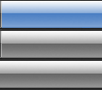
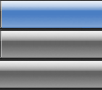
fix 784: Import WED 1.5 format DrapedOrthophotos with automatic redrape off - minor fixes to WED_TCEMarqueeTool rotate function - small changes to text in PropertyPane button bar texts to reduce overall   toolbar width - the "texture" button is very far out and usually invisible - small darkening of

diff --git a/src/WEDTCE/WED_TCEVertexTool.cpp b/src/WEDTCE/WED_TCEVertexTool.cpp
@@ -242,6 +242,27 @@ bool		WED_TCEVertexTool::PointOnStructure(intptr_t id, const Point2& p) const
 	return false;
 }
 
+static void updateUVbounds(IGISEntity * who)
+{
+	WED_Thing * node = dynamic_cast <WED_Thing *> (who);
+	node = node->GetParent();
+	WED_DrapedOrthophoto * ortho = SAFE_CAST(WED_DrapedOrthophoto,node);
+	if (!ortho)
+	{
+		if (node) node = node->GetParent();
+		ortho = SAFE_CAST(WED_DrapedOrthophoto,node);
+	}
+	if (ortho)
+	{
+		Bbox2 new_b;
+//		allow continued use of automatic redraping
+//		who->GetBounds(gis_UV,new_b);
+//		disable automatic redraping
+		new_b = Bbox2(0,0,0,0);
+		ortho->SetSubTexture(new_b);
+	}
+}
+
 void		WED_TCEVertexTool::ControlsMoveBy(intptr_t id, const Vector2& delta, Point2& io_handle)
 {
 	IGISEntity * who = reinterpret_cast<IGISEntity *>(id);
@@ -252,12 +273,8 @@ void		WED_TCEVertexTool::ControlsMoveBy(intptr_t id, const Vector2& delta, Point
 	new_b.p2 += delta;
 	who->Rescale(gis_UV,old_b,new_b);
 	
-	// now that we used TCE to modify the UVmaping, turn off the automatic redraping
-	WED_Thing * node = dynamic_cast <WED_Thing *> (who);
-	node = node->GetParent();
-	WED_DrapedOrthophoto * ortho = SAFE_CAST (WED_DrapedOrthophoto,node);
-	if (ortho)
-		ortho->SetSubTexture(Bbox2(0,0,0,0));
+	// now that we used TCE to modify the UVmaping, update UVbounds
+	updateUVbounds(who);
 }
 
 void		WED_TCEVertexTool::ControlsHandlesBy(intptr_t id, int c, const Vector2& delta, Point2& io_pt)
@@ -314,17 +331,8 @@ void		WED_TCEVertexTool::ControlsHandlesBy(intptr_t id, int c, const Vector2& de
 		break;
 	}
 
-	// now that we are going to use TCE to modify the UVmaping, turn off the automatic redraping first
-	WED_Thing * node = dynamic_cast <WED_Thing *> (who);
-	node = node->GetParent();
-	node = node->GetParent();
-	WED_DrapedOrthophoto * ortho = SAFE_CAST (WED_DrapedOrthophoto,node);
-//	if (ortho)
-//		ortho->SetSubTexture(Bbox2(0,0,0,0));
-	
-	// next update mCache ?
-//	SyncCache();
-
+	// now that we used TCE to modify the UVmaping, update UVbounds
+	updateUVbounds(who);
 }
 
 void		WED_TCEVertexTool::ControlsLinksBy	 (intptr_t id, int c, const Vector2& delta, Point2& io_pt)
@@ -348,13 +356,8 @@ void		WED_TCEVertexTool::ControlsLinksBy	 (intptr_t id, int c, const Vector2& de
 		}
 		break;
 	}
-	// now that we used TCE to modify the UVmaping, turn off the automatic redraping
-	WED_Thing * node = dynamic_cast <WED_Thing *> (who);
-	node = node->GetParent();
-	node = node->GetParent();
-	WED_DrapedOrthophoto * ortho = SAFE_CAST (WED_DrapedOrthophoto,node);
-	if (ortho)
-		ortho->SetSubTexture(Bbox2(0,0,0,0));
+	// now that we used TCE to modify the UVmaping, update UVbounds
+	updateUVbounds(who);
 }
 
 void	WED_TCEVertexTool::HandleSnap(Point2& io_pt, const Vector2& delta)

diff --git a/src/WEDCore/WED_Orthophoto.cpp b/src/WEDCore/WED_Orthophoto.cpp
@@ -59,19 +59,19 @@ WED_Ring * WED_RingfromImage(char * path, WED_Archive * arch, WED_MapZoomerNew *
 			if (c[1] < c[5])
 			{
 				// SW, SE, NW, NE from tiff, but we are making a CCW wound polygon, i.e. SW SE NE NW
-				coords[3] = Point2(c[0],c[1]);
-				coords[0] = Point2(c[2],c[3]);
-				coords[2] = Point2(c[4],c[5]);
-				coords[1] = Point2(c[6],c[7]);
+				coords[0] = Point2(c[0],c[1]);
+				coords[1] = Point2(c[2],c[3]);
+				coords[3] = Point2(c[4],c[5]);
+				coords[2] = Point2(c[6],c[7]);
 			}
 			else
 			{
 				// jpg compressed files have the origin at the bottom, not the top. So their encoding is
 				// NW, NE, SW, SE, but we are making a CCW wound polygon, i.e. need it to be SW SE NE NW
-				coords[3] = Point2(c[4],c[5]);
-				coords[0] = Point2(c[6],c[7]);
-				coords[2] = Point2(c[0],c[1]);
-				coords[1] = Point2(c[2],c[3]);
+				coords[0] = Point2(c[4],c[5]);
+				coords[1] = Point2(c[6],c[7]);
+				coords[3] = Point2(c[0],c[1]);
+				coords[2] = Point2(c[2],c[3]);
 			}
 			has_geo = 1;
 		}
@@ -93,10 +93,10 @@ WED_Ring * WED_RingfromImage(char * path, WED_Archive * arch, WED_MapZoomerNew *
 		if (grow_x < grow_y) { pix_w = grow_x * (double) inf.width;	pix_h = grow_x * (double) inf.height; }
 		else				 { pix_w = grow_y * (double) inf.width;	pix_h = grow_y * (double) inf.height; }
 
-		coords[0] = zoomer->PixelToLL(center + Vector2( pix_w,-pix_h));
-		coords[1] = zoomer->PixelToLL(center + Vector2( pix_w,+pix_h));
-		coords[2] = zoomer->PixelToLL(center + Vector2(-pix_w,+pix_h));
-		coords[3] = zoomer->PixelToLL(center + Vector2(-pix_w,-pix_h));
+		coords[0] = zoomer->PixelToLL(center + Vector2(-pix_w,-pix_h));
+		coords[1] = zoomer->PixelToLL(center + Vector2( pix_w,-pix_h));
+		coords[2] = zoomer->PixelToLL(center + Vector2( pix_w,+pix_h));
+		coords[3] = zoomer->PixelToLL(center + Vector2(-pix_w,+pix_h));
 	}
 	DestroyBitmap(&inf);
 

diff --git a/src/WEDEntities/WED_DrapedOrthophoto.cpp b/src/WEDEntities/WED_DrapedOrthophoto.cpp
@@ -34,10 +34,10 @@ WED_DrapedOrthophoto::WED_DrapedOrthophoto(WED_Archive * a, int i) : WED_GISPoly
 	heading(this,"Texture Heading",SQL_Name("WED_dsf_overlay", "heading"),  XML_Name("draped_orthophoto","heading"),   0.0,5,1),
 	width(this,"Texture Width",   SQL_Name("WED_dsf_overlay", "width"),     XML_Name("draped_orthophoto","width"),     0.0,5,2),
 	length(this,"Texture Length", SQL_Name("WED_dsf_overlay", "length"),    XML_Name("draped_orthophoto","length"),    0.0,5,2),
-	top(this,"Texture Top",       SQL_Name("WED_dsf_overlay", "tex_top"),   XML_Name("draped_orthophoto","tex_top"),   1.0,5,3),
+	top(this,"Texture Top",       SQL_Name("WED_dsf_overlay", "tex_top"),   XML_Name("draped_orthophoto","tex_top"),   0.0,5,3),
 	bottom(this,"Texture Bottom", SQL_Name("WED_dsf_overlay", "tex_bottom"),XML_Name("draped_orthophoto","tex_bottom"),0.0,5,3),
 	left(this,"Texture Left",     SQL_Name("WED_dsf_overlay", "tex_left"),  XML_Name("draped_orthophoto","tex_left"),  0.0,5,3),
-	right(this,"Texture Right",   SQL_Name("WED_dsf_overlay", "tex_right"), XML_Name("draped_orthophoto","tex_right"), 1.0,5,3)
+	right(this,"Texture Right",   SQL_Name("WED_dsf_overlay", "tex_right"), XML_Name("draped_orthophoto","tex_right"), 0.0,5,3)
 {
 }
 
@@ -192,10 +192,10 @@ void WED_DrapedOrthophoto::Redrape(bool updProp)
 				{
 					switch (n)
 					{
-						case 0: uv=uv_box.bottom_right();  break;
-						case 1: uv=uv_box.top_right(); break;
-						case 2: uv=uv_box.top_left();    break;
-						case 3: uv=uv_box.bottom_left();
+						case 0: uv=uv_box.bottom_left();  break;
+						case 1: uv=uv_box.bottom_right(); break;
+						case 2: uv=uv_box.top_right();    break;
+						case 3: uv=uv_box.top_left();
 								if (updProp)
 								{
 									st = pt_bak[3].pt;

diff --git a/src/WEDTCE/WED_TCEMarqueeTool.cpp b/src/WEDTCE/WED_TCEMarqueeTool.cpp
@@ -522,14 +522,14 @@ void	WED_TCEMarqueeTool::ApplyRescale(const Bbox2& old_bounds, const Bbox2& new_
 
 		if (ent)
 		{
-			ent->Rescale(gis_UV,old_bounds,new_bounds);
+			WED_DrapedOrthophoto * ortho = SAFE_CAST (WED_DrapedOrthophoto, went);
+			if (ortho)
+				ortho->SetSubTexture(new_bounds);
+			else
+				ent->Rescale(gis_UV,old_bounds,new_bounds);
+			
 		}
-		// now that we used TCE to modify the UVmaping, update UVbounds to allow continued use of automatic redraping
-		WED_DrapedOrthophoto * ortho = SAFE_CAST (WED_DrapedOrthophoto, went);
-		if (ortho)
-			ortho->SetSubTexture(new_bounds);
 	}
-
 }
 
 void	WED_TCEMarqueeTool::ApplyRotate(const Point2& ctr, double angle)
@@ -552,8 +552,18 @@ void	WED_TCEMarqueeTool::ApplyRotate(const Point2& ctr, double angle)
 
 		if (ent)
 		{
-			ent->Rotate(gis_UV,ctr, angle);
+			WED_DrapedOrthophoto * ortho = SAFE_CAST (WED_DrapedOrthophoto, went);
+			if (ortho)
+			{
+				float hdg;
+				hdg = ortho->GetHeading() - angle;
+				ortho->SetHeading(hdg);
+				                        // this isn't needed to show the new mapping - but it forces
+				                        // a re-calculation of the heading in 4-sided non-bezier orthos,
+				ortho->Redrape();       // which are to be behave differently wrt heading/UV mapping
+			}
+			else
+				ent->Rotate(gis_UV,ctr, angle);
 		}
 	}
-
 }

diff --git a/src/WEDWindows/WED_DocumentWindow.cpp b/src/WEDWindows/WED_DocumentWindow.cpp
@@ -211,7 +211,7 @@ WED_DocumentWindow::WED_DocumentWindow(
 	// --------------- Lights and Markings ---------------
 
 	WED_PropertyPane * prop_pane4 = new WED_PropertyPane(prop_tabs->GetPaneOwner(), inDocument, sel_t, sel_w,inDocument->GetArchive(), propPane_Selection, 0);
-	prop_tabs->AddPane(prop_pane4, "Lights and Markings");
+	prop_tabs->AddPane(prop_pane4, "Lights + Markings");
 
 	// ---------------- 3D Mode ---------------------
 
@@ -221,7 +221,7 @@ WED_DocumentWindow::WED_DocumentWindow(
 	// ---------------- Exclusions ------------------
 
 	WED_PropertyPane * prop_pane6 = new WED_PropertyPane(prop_tabs->GetPaneOwner(), inDocument, sel_t, sel_w,inDocument->GetArchive(), propPane_Selection, 0);
-	prop_tabs->AddPane(prop_pane6, "Exclusions and Boundaries");
+	prop_tabs->AddPane(prop_pane6, "Exclusions + Boundary");
 
 	// ---------------- TCE -------------
 	mTCEPane = new WED_TCEPane(this, inDocument,inDocument->GetArchive());

diff --git a/src/WEDMap/WED_Map.cpp b/src/WEDMap/WED_Map.cpp
@@ -282,10 +282,10 @@ void		WED_Map::Draw(GUI_GraphState * state)
 	state->SetState(0,0,0,1,1,0,0);
 	glColor4fv(white);
 	glBegin(GL_LINES);
-	glVertex2i(b[0]+ 50, b[1] + 15);
-	glVertex2i(b[0]+ 50 +(int)(MIN_BAR_LEN * bar_len / scale), b[1] + 15);
-	glVertex2i(b[0]+ 50 +(int)(MIN_BAR_LEN * bar_len / scale), b[1] + 14);
-	glVertex2i(b[0]+ 50, b[1] + 14);
+	glVertex2i(b[0]+ 50 + SHOW_FPS*80, b[1] + 15);
+	glVertex2i(b[0]+ 50 + SHOW_FPS*80 + (int)(MIN_BAR_LEN * bar_len / scale), b[1] + 15);
+	glVertex2i(b[0]+ 50 + SHOW_FPS*80 + (int)(MIN_BAR_LEN * bar_len / scale), b[1] + 14);
+	glVertex2i(b[0]+ 50 + SHOW_FPS*80, b[1] + 14);
 	glEnd();
 	
     GUI_FontDraw(state, font_UI_Basic, white, b[0]+5,b[1] + 10, mouse_loc);

diff --git a/src/WEDLibrary/WED_LibraryPreviewPane.cpp b/src/WEDLibrary/WED_LibraryPreviewPane.cpp
@@ -220,7 +220,7 @@ void	WED_LibraryPreviewPane::Draw(GUI_GraphState * g)
 						}
 						glEnd();
 						
-						if (!pol.mUVBox.is_empty())                   // draw a box around the selected texture area
+						if (!pol.mUVBox.is_null())                   // draw a box around the selected texture area
 						{
 							g->Reset();
 							glColor4fv(WED_Color_RGBA(wed_StructureSelected));

diff --git a/src/WEDMap/WED_CreatePolygonTool.cpp b/src/WEDMap/WED_CreatePolygonTool.cpp
@@ -352,6 +352,8 @@ void	WED_CreatePolygonTool::AcceptPath(
 		if(rmgr->GetPol(mResource.value, info))
 			if (!info.mUVBox.is_null())
 				dpol->SetSubTexture(info.mUVBox);
+			else
+				dpol->SetSubTexture(Bbox2(0,0,1,1));
 
 		dpol->Redrape();
 	}
